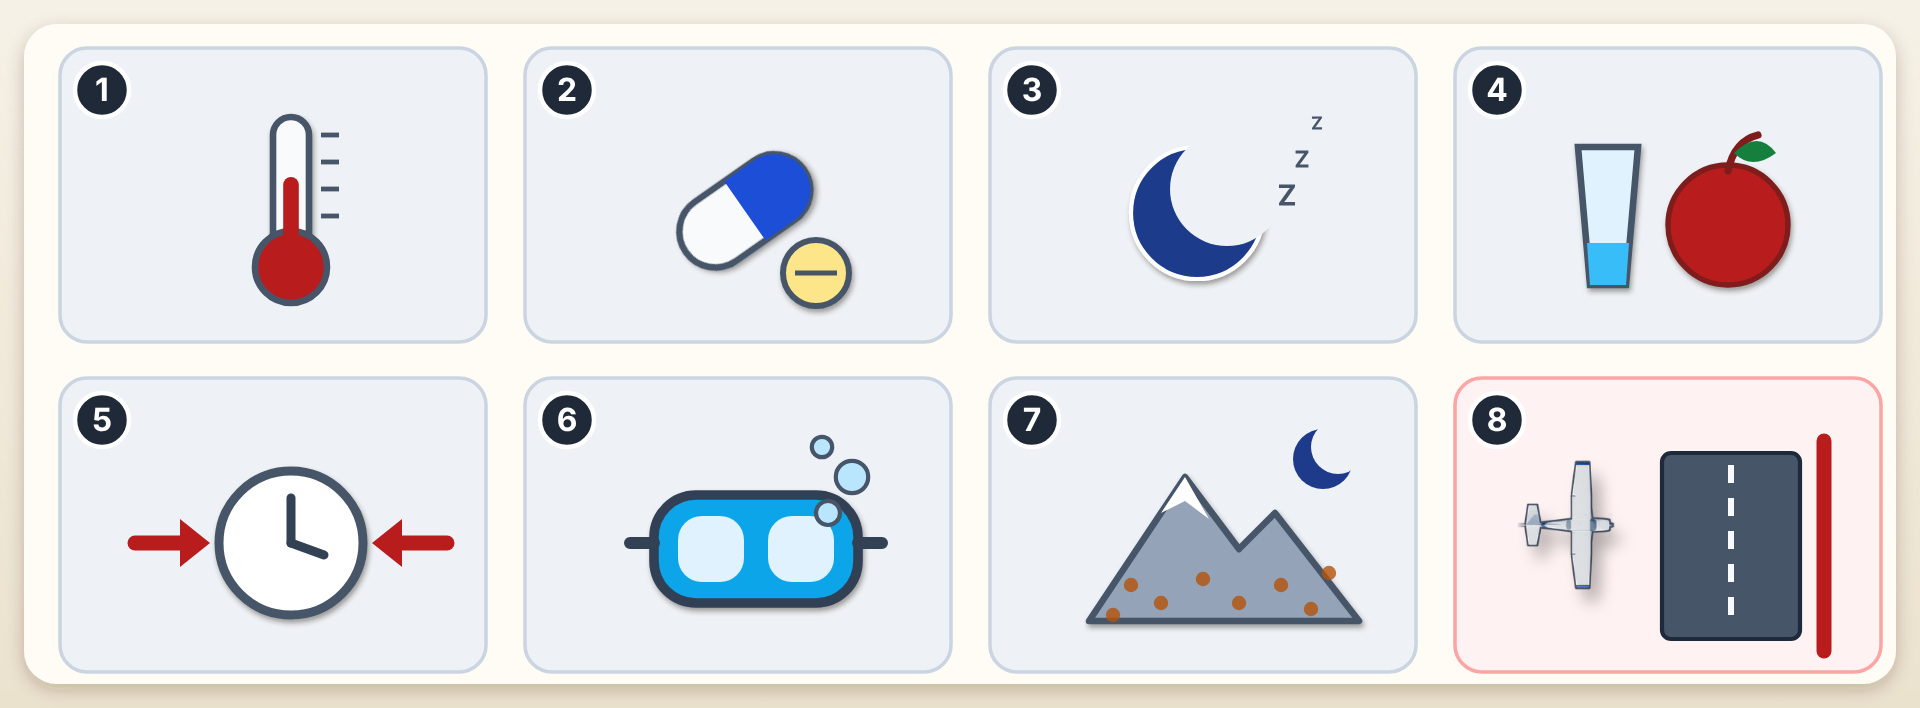
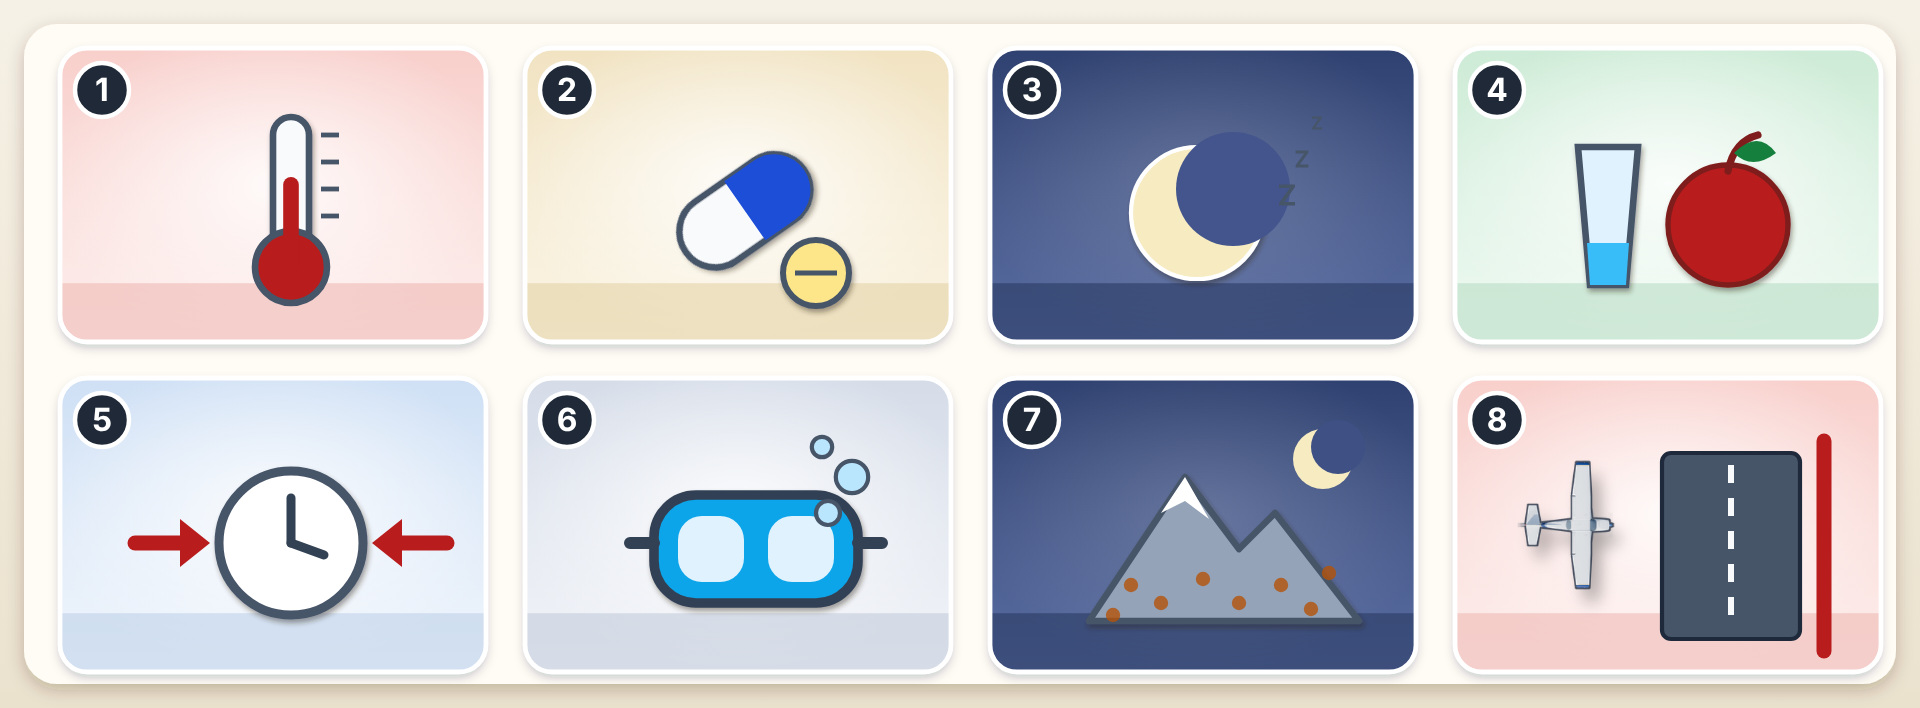
Handbook figures round 15: richer tiles for 2-1, 13-4 and 23-9
Claude-Session: https://claude.ai/code/session_01GaKzbGvzg6oJZTLUkbk9TR

diff --git a/09_book_figures/handbook/figs/f_23_09_fitness_check.py b/09_book_figures/handbook/figs/f_23_09_fitness_check.py
@@ -6,6 +6,7 @@ import math
 
 from figs import h_a4 as A
 from figs import h_b2 as H
+from figs import h_rich as R
 from figs import scene as S
 
 n = S.n
@@ -27,8 +28,7 @@ def background():
 
 def tile(i):
     x, y = GX[i % 4], GY[i // 4]
-    col, st = ("#FEF2F2", "#FCA5A5") if i == 7 else ("#EEF2F7", "#CBD5E1")
-    return f'<rect x="{n(x)}" y="{n(y)}" width="{n(TW)}" height="{n(TH)}" rx="9" fill="{col}" stroke="{st}" stroke-width="1.2"/>'
+    return R.tile(f"{U}t{i}", x, y, TW, TH, ("red", "sand", "night", "green", "blue", "slate", "night", "red")[i])
 
 
 def icon(i):
@@ -45,7 +45,7 @@ def icon(i):
                  f'<path d="M{n(cx - 6)} {n(cy - 12)} h12 a12 12 0 0 1 0 24 h-12 Z" fill="{BLUE}"/></g>')
         o.append(f'<circle cx="{n(cx + 20)}" cy="{n(cy + 20)}" r="11" fill="#FDE68A" stroke="{SLATE}" stroke-width="2" filter="url(#{U}ds)"/><line x1="{n(cx + 13)}" y1="{n(cy + 20)}" x2="{n(cx + 27)}" y2="{n(cy + 20)}" stroke="{SLATE}" stroke-width="1.6"/>')
     elif i == 2:                                         # sleep: a crescent moon and Z
-        o.append(f'<circle cx="{n(cx - 8)}" cy="{n(cy)}" r="22" fill="#1E3A8A" stroke="#FFFFFF" stroke-width="1.4" filter="url(#{U}ds)"/><circle cx="{n(cx + 2)}" cy="{n(cy - 8)}" r="19" fill="#EEF2F7"/>')
+        o.append(f'<circle cx="{n(cx - 8)}" cy="{n(cy)}" r="22" fill="#F7EBC2" stroke="#FFFFFF" stroke-width="1.4" filter="url(#{U}ds)"/><circle cx="{n(cx + 4)}" cy="{n(cy - 8)}" r="19" fill="#43558C"/>')
         for k, s in enumerate((7.0, 5.6, 4.4)):
             o.append(H.glyph_text("Z", cx + 22 + k * 5, cy - 6 - k * 12, s, SLATE, spacing=0.3))
     elif i == 3:                                         # food and water: a glass and an apple
@@ -66,7 +66,7 @@ def icon(i):
     elif i == 6:                                         # high, dust or darkness: a mountain, dust and a moon
         o.append(f'<path d="M{n(cx - 44)} {n(cy + 26)} L{n(cx - 12)} {n(cy - 22)} L{n(cx + 6)} {n(cy + 2)} L{n(cx + 18)} {n(cy - 10)} L{n(cx + 46)} {n(cy + 26)} Z" fill="#94A3B8" stroke="{SLATE}" stroke-width="2.2" stroke-linejoin="round" filter="url(#{U}ds)"/>'
                  f'<path d="M{n(cx - 12)} {n(cy - 22)} L{n(cx - 20)} {n(cy - 10)} L{n(cx - 12)} {n(cy - 14)} L{n(cx - 4)} {n(cy - 8)} Z" fill="#FFFFFF"/>')
-        o.append(f'<circle cx="{n(cx + 34)}" cy="{n(cy - 28)}" r="10" fill="#1E3A8A"/><circle cx="{n(cx + 39)}" cy="{n(cy - 32)}" r="9" fill="#EEF2F7"/>')
+        o.append(f'<circle cx="{n(cx + 34)}" cy="{n(cy - 28)}" r="10" fill="#F7EBC2"/><circle cx="{n(cx + 39)}" cy="{n(cy - 32)}" r="9" fill="#3E5084"/>')
         for k, (dx, dy) in enumerate(((-30, 14), (-20, 20), (-6, 12), (6, 20), (20, 14), (30, 22), (-36, 24), (36, 10))):
             o.append(f'<circle cx="{n(cx + dx)}" cy="{n(cy + dy)}" r="2.4" fill="#B45309" fill-opacity="0.8"/>')
     else:                                                # the rule for the air: an aeroplane, a runway and a stop bar beyond it

diff --git a/09_book_figures/handbook/figs/h_rich.py b/09_book_figures/handbook/figs/h_rich.py
@@ -1,0 +1,27 @@
+"""A richer tile for the figures made of small drawings in cards: a soft vertical gradient in a tone, a pale spotlight behind the drawing, a floor band with a soft edge and a thin white rim,
+in the manner of the scene panels of the weather figures. `tile(uid, x, y, w, h, tone)` returns the markup; the drawing goes on top."""
+from figs import scene as S
+
+n = S.n
+TONES = {
+    "blue": ("#CFE0F5", "#F1F6FC", "#B9CEE8"),
+    "sand": ("#F1E3C2", "#FBF5E6", "#E2CFA2"),
+    "green": ("#CDEBD6", "#F0FAF3", "#B4DBC1"),
+    "red": ("#F8CFCB", "#FDF0EE", "#EDB5AF"),
+    "slate": ("#D5DCE8", "#F3F5F9", "#BFC8D8"),
+    "night": ("#2F4170", "#5C6FA3", "#25345C"),
+}
+
+
+def tile(uid, x, y, w, h, tone="slate", rx=9.0):
+    top, bottom, floor = TONES[tone]
+    night = tone == "night"
+    return (f'<defs><linearGradient id="{uid}g" x1="0" y1="0" x2="0" y2="1"><stop offset="0" stop-color="{top}"/><stop offset="1" stop-color="{bottom}"/></linearGradient>'
+            f'<radialGradient id="{uid}r" cx="0.5" cy="0.46" r="0.55"><stop offset="0" stop-color="#FFFFFF" stop-opacity="{0.18 if night else 0.85}"/><stop offset="1" stop-color="#FFFFFF" stop-opacity="0"/></radialGradient>'
+            f'<clipPath id="{uid}c"><rect x="{n(x)}" y="{n(y)}" width="{n(w)}" height="{n(h)}" rx="{n(rx)}"/></clipPath>'
+            f'<filter id="{uid}s" x="-10%" y="-10%" width="120%" height="125%"><feDropShadow dx="0" dy="1.6" stdDeviation="1.8" flood-color="#10233F" flood-opacity="0.26"/></filter></defs>'
+            f'<rect x="{n(x)}" y="{n(y)}" width="{n(w)}" height="{n(h)}" rx="{n(rx)}" fill="#FFFFFF" filter="url(#{uid}s)"/>'
+            f'<g clip-path="url(#{uid}c)"><rect x="{n(x)}" y="{n(y)}" width="{n(w)}" height="{n(h)}" fill="url(#{uid}g)"/>'
+            f'<rect x="{n(x)}" y="{n(y)}" width="{n(w)}" height="{n(h)}" fill="url(#{uid}r)"/>'
+            f'<rect x="{n(x)}" y="{n(y + h * 0.80)}" width="{n(w)}" height="{n(h * 0.20)}" fill="{floor}" fill-opacity="0.55"/></g>'
+            f'<rect x="{n(x)}" y="{n(y)}" width="{n(w)}" height="{n(h)}" rx="{n(rx)}" fill="none" stroke="#FFFFFF" stroke-width="1.6"/>')

diff --git a/09_book_figures/handbook/figs/f_02_01_documents_on_board.py b/09_book_figures/handbook/figs/f_02_01_documents_on_board.py
@@ -6,6 +6,7 @@ No words but SAR: shapes and the numbers of the callouts. The drawings are gener
 import math
 
 from figs import h_b2 as H
+from figs import h_rich as R
 from figs import scene as S
 
 n = S.n
@@ -27,7 +28,7 @@ def background():
 
 def tile(i):
     x, y = GX[i % 4], GY[i // 4]
-    return f'<rect x="{n(x)}" y="{n(y)}" width="{n(TW)}" height="{n(TH)}" rx="9" fill="#EEF2F7" stroke="#CBD5E1" stroke-width="1.2"/>'
+    return R.tile(f"{U}t{i}", x, y, TW, TH, ("sand", "green", "blue", "slate", "sand", "blue", "green", "red")[i])
 
 
 def page(x, y, w=44.0, h=58.0, lines=3, fill="#FFFFFF"):

diff --git a/09_book_figures/handbook/figs/f_13_04_passenger_briefing.py b/09_book_figures/handbook/figs/f_13_04_passenger_briefing.py
@@ -4,6 +4,7 @@ No words but AR, EN and O2: shapes, colours and the numbers of the callouts. The
 import math
 
 from figs import h_b2 as H
+from figs import h_rich as R
 from figs import scene as S
 
 n = S.n
@@ -25,7 +26,7 @@ def background():
 
 def tile(i):
     x, y = GX[i % 4], GY[i // 4]
-    return f'<rect x="{n(x)}" y="{n(y)}" width="{n(TW)}" height="{n(TH)}" rx="9" fill="#EEF2F7" stroke="#CBD5E1" stroke-width="1.2"/>'
+    return R.tile(f"{U}t{i}", x, y, TW, TH, ("red", "blue", "slate", "red", "green", "sand", "blue", "slate")[i])
 
 
 def icon(i):

diff --git a/09_book_figures/handbook/README.md b/09_book_figures/handbook/README.md
@@ -72,7 +72,7 @@ numbered callouts), takes the outlined clouds out with `"remove"`, puts a sky be
 only inserts (the same text twice): a sprite overlay names the cloud, gives its place and `"width"`, and `"height"` where the figure wants it taller or thinner than
 the cloud is; `"tint"` paints a cloud the colour of dust; `"haze"` fades a far cloud into the colour of the sky, `"feather"` softens its edge, `"flip"` turns it over.
 
-The **easy-to-understand teaching figures** (1-1, 1-2, 2-1, 2-2, 2-3, 3-1, 3-2, 4-3, 5-4, 5-6, 5-7, 6-2, 7-2, 8-3, 8-5, 9-5, 9-6, 10-4, 10-5, 12-4, 12-5, 13-3, 13-4, 14-10, 22-9, 23-9, 30-5) are new plates drawn only from numbers and statements the chapters already give; they carry digits, codes and arrows but no words (the words are in the legends). 5-7 (ground effect), 8-3 (mixture as three balance scales) and 9-5 (cabin heat and carbon monoxide, a schematic on the side sprite) are the third round; the old 8-3 (propeller blade section) is now 8-4. The fourth round adds 2-1 (the eight documents on board, as tiles) and 9-6 (the emergency locator transmitter, a schematic on the side sprite); the old 2-1 and 2-2 are now 2-2 and 2-3. The fifth round adds 6-2 (load factor and stall speed in a level turn) and 12-4 (the effects of the CG position); the old 6-2 and 6-3 are now 6-3 and 6-4. The sixth round adds 7-2 (adverse yaw, on the top sprite) and 13-3 (the eight subjects of the passenger briefing, as tiles); the old 7-2 and 7-3 are now 7-3 and 7-4. The seventh round adds 8-5 (the order of power changes) and 10-5 (the blockages of the pitot-static system, three rows of three dials); the old 10-5 (compass errors) is now 10-6. The eighth round adds 1-2 (staying current, three bars that end at now) and 4-3 (the chapter's illustrative NOTAM read part by part, with its validity in UTC and local time); nothing is renumbered. The ninth round adds 3-1 (accident, serious incident and incident as nested regions) and 12-4 (the first fix of the "Too heavy" flight, two bars of mass to one scale); the old 3-1 (the reporting clock) is now 3-2 and the old 12-4 (the CG position) is now 12-5. The tenth round adds 13-3 (the latest takeoff time from A, a time scale worked back from the sunset at B); the old 13-3 (the passenger briefing) is now 13-4. The eleventh round adds 23-9 (the fitness check before every flight, seven question tiles and the rule for the air) and 22-9 (collision avoidance in Saudi conditions, five tiles); nothing is renumbered. The twelfth round adds 14-10 (what to look for in the weather of the Arabian Peninsula, five tiles); nothing is renumbered. The fourteenth round redraws 14-10 and 22-9 as illustrated scenes with the scene kit, the cloud sprites and the aeroplane (same ids, numbers and legends). The thirteenth round adds 30-5 (a precautionary landing in four steps), drawn as four illustrated scenes of the Peninsula with the scene kit, the cloud sprites and the aeroplane, the standard of the weather figures; the old 30-5 to 30-7 (fire, electrical failure, survival) are now 30-6 to 30-8.
+The **easy-to-understand teaching figures** (1-1, 1-2, 2-1, 2-2, 2-3, 3-1, 3-2, 4-3, 5-4, 5-6, 5-7, 6-2, 7-2, 8-3, 8-5, 9-5, 9-6, 10-4, 10-5, 12-4, 12-5, 13-3, 13-4, 14-10, 22-9, 23-9, 30-5) are new plates drawn only from numbers and statements the chapters already give; they carry digits, codes and arrows but no words (the words are in the legends). 5-7 (ground effect), 8-3 (mixture as three balance scales) and 9-5 (cabin heat and carbon monoxide, a schematic on the side sprite) are the third round; the old 8-3 (propeller blade section) is now 8-4. The fourth round adds 2-1 (the eight documents on board, as tiles) and 9-6 (the emergency locator transmitter, a schematic on the side sprite); the old 2-1 and 2-2 are now 2-2 and 2-3. The fifth round adds 6-2 (load factor and stall speed in a level turn) and 12-4 (the effects of the CG position); the old 6-2 and 6-3 are now 6-3 and 6-4. The sixth round adds 7-2 (adverse yaw, on the top sprite) and 13-3 (the eight subjects of the passenger briefing, as tiles); the old 7-2 and 7-3 are now 7-3 and 7-4. The seventh round adds 8-5 (the order of power changes) and 10-5 (the blockages of the pitot-static system, three rows of three dials); the old 10-5 (compass errors) is now 10-6. The eighth round adds 1-2 (staying current, three bars that end at now) and 4-3 (the chapter's illustrative NOTAM read part by part, with its validity in UTC and local time); nothing is renumbered. The ninth round adds 3-1 (accident, serious incident and incident as nested regions) and 12-4 (the first fix of the "Too heavy" flight, two bars of mass to one scale); the old 3-1 (the reporting clock) is now 3-2 and the old 12-4 (the CG position) is now 12-5. The tenth round adds 13-3 (the latest takeoff time from A, a time scale worked back from the sunset at B); the old 13-3 (the passenger briefing) is now 13-4. The eleventh round adds 23-9 (the fitness check before every flight, seven question tiles and the rule for the air) and 22-9 (collision avoidance in Saudi conditions, five tiles); nothing is renumbered. The twelfth round adds 14-10 (what to look for in the weather of the Arabian Peninsula, five tiles); nothing is renumbered. The fifteenth round gives the tile figures 2-1, 13-4 and 23-9 a richer tile (gradient, spotlight and floor, figs/h_rich.py). The fourteenth round redraws 14-10 and 22-9 as illustrated scenes with the scene kit, the cloud sprites and the aeroplane (same ids, numbers and legends). The thirteenth round adds 30-5 (a precautionary landing in four steps), drawn as four illustrated scenes of the Peninsula with the scene kit, the cloud sprites and the aeroplane, the standard of the weather figures; the old 30-5 to 30-7 (fire, electrical failure, survival) are now 30-6 to 30-8.
 
 The weather figures that show a place (14-3, 14-6, 14-7, 14-8, 14-9, 15-1, 15-4, 15-6) are drawn again as **illustrated scenes** on the old figure's canvas: a plate whose
 `"reskin"` has `"blank": True` and `"layers"` starts from nothing and lays strings of SVG and cloud sprites in order, back to front. `figs/scene.py` is the kit: skies and the sun
